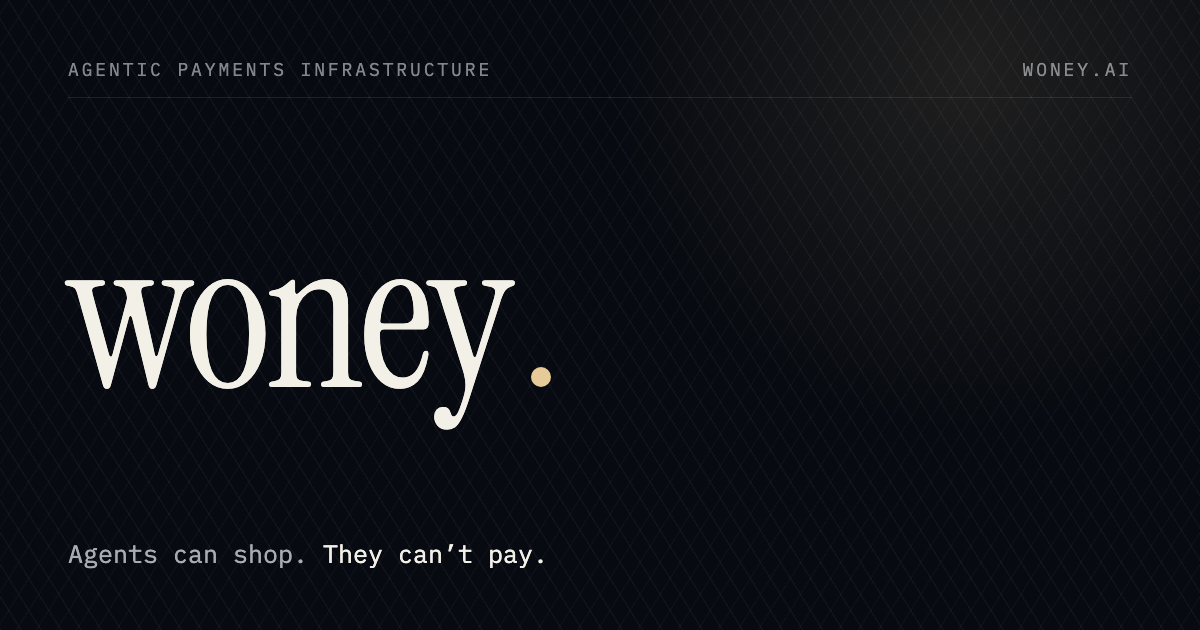
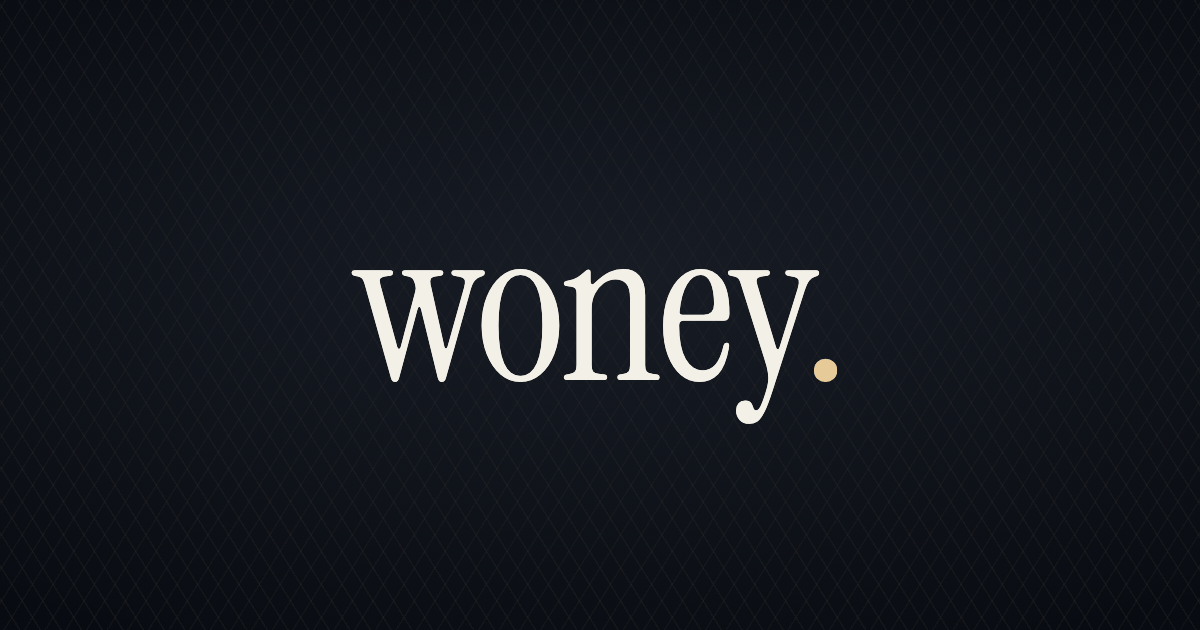
feat(brand): make the share image the wordmark, alone
The previous share image repeated the tagline that the link preview
already prints beside it, and the version before that split attention
between a wordmark on the left and a caption stranded at the bottom
edge — small, low contrast, and unreadable at the size a feed actually
renders. Paying for an unbalanced composition with a message nobody
receives is a bad trade.

So the image is the wordmark and nothing else, centred, the way Stripe
and Linear do it. The engraved field carries the atmosphere that keeps
it from being a word on a black rectangle, and the foil dot is the same
one the site header uses — someone who sees the preview and then opens
the page meets the same signature twice.

The image no longer states what Woney does. The title and description
do, and they now survive truncation. Each does one job instead of both
doing the same one badly.

Quantised to 232 kB from 497 kB. Verified the foil dot still samples
exactly #e6ca98: the default quality setting shifted it to #dccfb7, and
that dot is the only brand colour in the piece.

diff --git a/index.html b/index.html
@@ -43,10 +43,10 @@
     <meta property="og:image" content="https://woney.ai/og.png" />
     <meta property="og:image:width" content="1200" />
     <meta property="og:image:height" content="630" />
-    <meta
-      property="og:image:alt"
-      content="Woney. Agents can shop. They can't pay."
-    />
+    <!-- Describes the image, not the product. The share image is the wordmark
+         and nothing else, so an alt that recites a tagline the picture no
+         longer contains would be describing a different image. -->
+    <meta property="og:image:alt" content="The Woney wordmark." />
 
     <meta name="twitter:card" content="summary_large_image" />
     <meta
